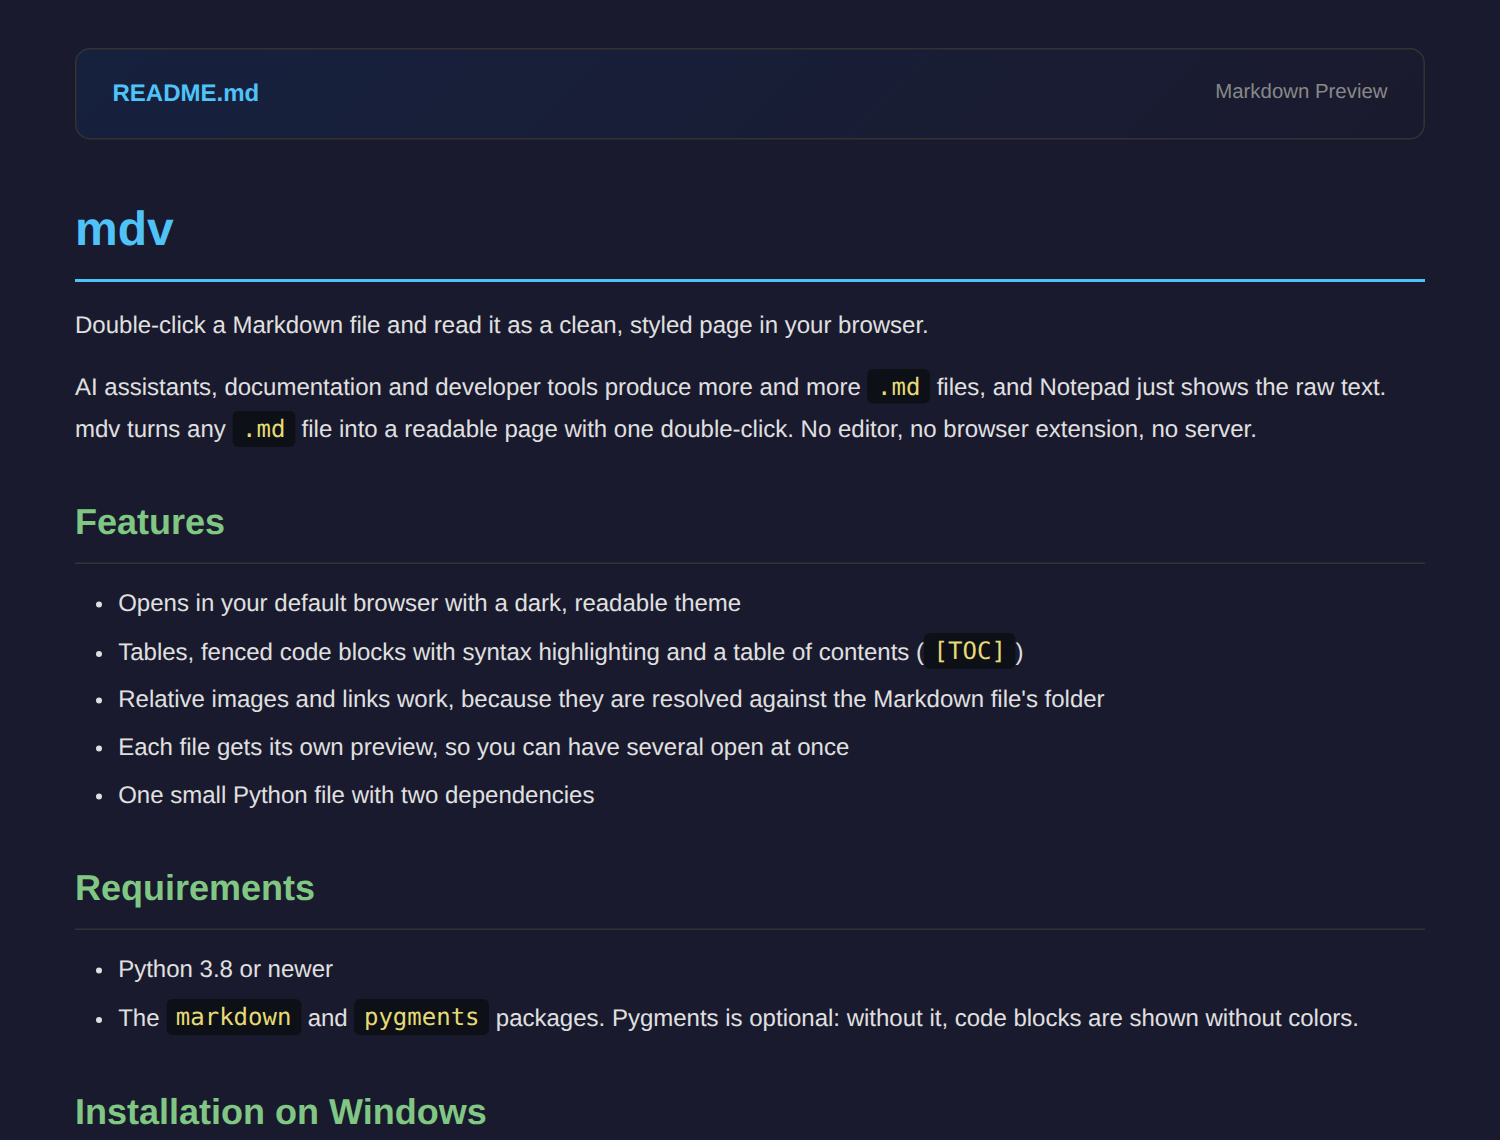
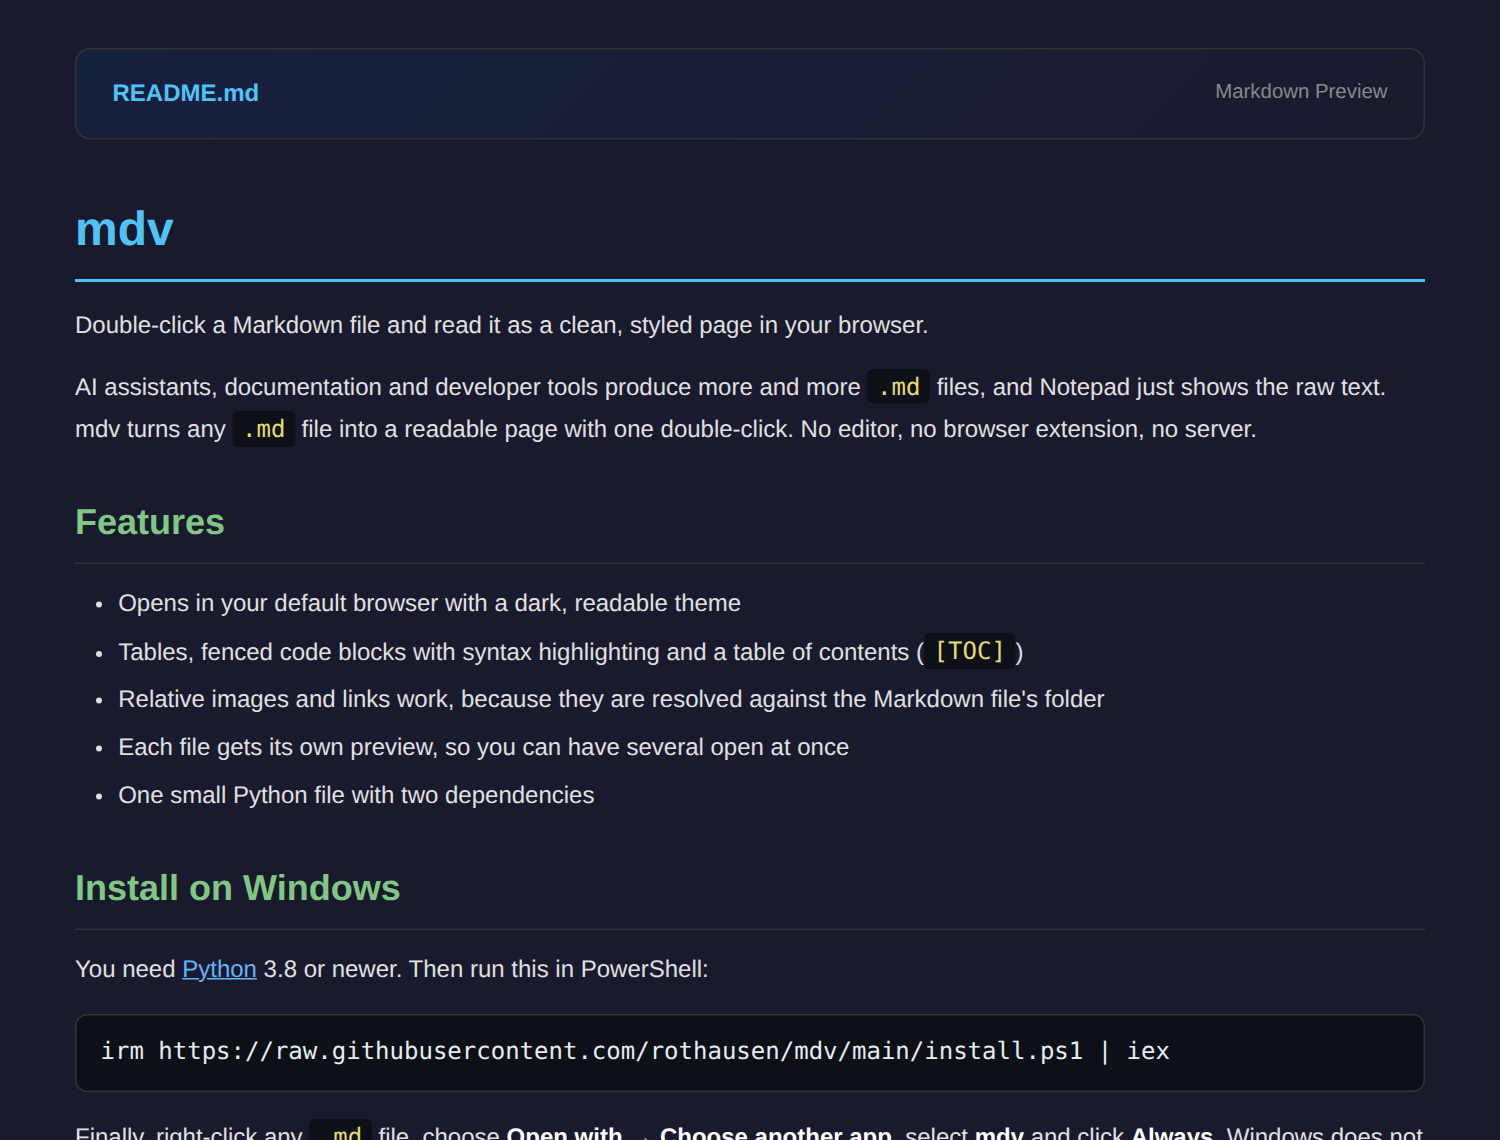
Add files via upload
Add one-line installer and shorten README

Changed region(s): [[0.0307, 0.8904, 0.9507, 1.0], [0.0613, 0.8289, 0.46, 0.8596], [0.0613, 0.7675, 0.276, 0.7982]]

diff --git a/mdv.py b/mdv.py
@@ -28,7 +28,7 @@ try:
 except ImportError:  # Syntax highlighting is optional
     HtmlFormatter = None
 
-EXTENSIONS = ["fenced_code", "codehilite", "tables", "toc", "sane_lists"]
+EXTENSIONS = ["fenced_code", "codehilite", "tables", "toc", "sane_lists", "md_in_html"]
 EXTENSION_CONFIGS = {"codehilite": {"guess_lang": False}}
 
 CSS = """
@@ -52,6 +52,8 @@ th{background:#16213e;color:#4fc3f7;padding:.6rem 1rem;border:1px solid #333}
 td{padding:.5rem 1rem;border:1px solid #333}
 tr:nth-child(even){background:rgba(255,255,255,.03)}
 hr{border:none;border-top:1px solid #333;margin:2rem 0}
+details{background:#16213e;border:1px solid #333;border-radius:8px;padding:.6rem 1rem;margin:1rem 0}
+summary{cursor:pointer;color:#4fc3f7;font-weight:600}
 .hb{background:linear-gradient(135deg,#16213e,#1a1a2e);border:1px solid #333;border-radius:10px;padding:1rem 1.5rem;margin-bottom:2rem;display:flex;justify-content:space-between;gap:1rem}
 .hb .fn{color:#4fc3f7;font-weight:600;word-break:break-all}
 .hb .lb{color:#888;font-size:.85rem;white-space:nowrap}

diff --git a/README.md b/README.md
@@ -14,39 +14,44 @@ AI assistants, documentation and developer tools produce more and more `.md` fil
 - Each file gets its own preview, so you can have several open at once
 - One small Python file with two dependencies
 
-## Requirements
+## Install on Windows
 
-- Python 3.8 or newer
-- The `markdown` and `pygments` packages. Pygments is optional: without it, code blocks are shown without colors.
-
-## Installation on Windows
-
-1. Put the files in a permanent folder, for example `C:\Users\<you>\bin\mdv`. Either download the repository as a ZIP from GitHub and unpack it there, or clone it:
-
-   ```powershell
-   git clone https://github.com/rothausen/mdv.git $HOME\bin\mdv
-   ```
-
-2. Install the dependencies:
-
-   ```powershell
-   py -m pip install -r $HOME\bin\mdv\requirements.txt
-   ```
-
-3. Make mdv the default app for `.md` files:
-   1. Right-click any `.md` file and choose **Open with** → **Choose another app**.
-   2. Click **Choose an app on your PC** and select `mdv.bat` in the folder from step 1.
-   3. Click **Always**.
-
-Double-clicking a `.md` file now opens it in your browser.
-
-### Command line
-
-Add the folder to your `PATH` to run mdv from any terminal:
+You need [Python](https://www.python.org/downloads/) 3.8 or newer. Then run this in PowerShell:
 
 ```powershell
-mdv README.md
+irm https://raw.githubusercontent.com/rothausen/mdv/main/install.ps1 | iex
 ```
+
+Finally, right-click any `.md` file, choose **Open with** → **Choose another app**, select **mdv** and click **Always**. Windows does not let scripts change the default app for a file type, so this one click is up to you.
+
+The installer puts mdv in `%USERPROFILE%\bin\mdv`, installs the `markdown` and `pygments` packages, adds mdv to the Open with list and adds the folder to your `PATH`, so `mdv file.md` also works in a new terminal. Everything is per-user and needs no administrator rights. You can [read the script](install.ps1) before running it.
+
+<details markdown="1">
+<summary>Manual installation</summary>
+
+Download the repository as a ZIP, unpack it to a permanent folder such as `C:\Users\<you>\bin\mdv`, and install the packages:
+
+```powershell
+py -m pip install -r requirements.txt
+```
+
+Then right-click any `.md` file, choose **Open with** → **Choose another app** → **Choose an app on your PC**, select `mdv.bat` and click **Always**.
+
+</details>
+
+<details markdown="1">
+<summary>Uninstall</summary>
+
+Delete the folder and the Open with entries:
+
+```powershell
+Remove-Item -Recurse "$HOME\bin\mdv", "HKCU:\Software\Classes\Applications\mdv.bat"
+Remove-Item "HKCU:\Software\Classes\.md\OpenWithList\mdv.bat", "HKCU:\Software\Classes\.markdown\OpenWithList\mdv.bat"
+```
+
+Finally, remove `%USERPROFILE%\bin\mdv` from your `PATH`: search the Start menu for **Edit environment variables for your account**.
+
+</details>
 
 ## macOS and Linux
 
